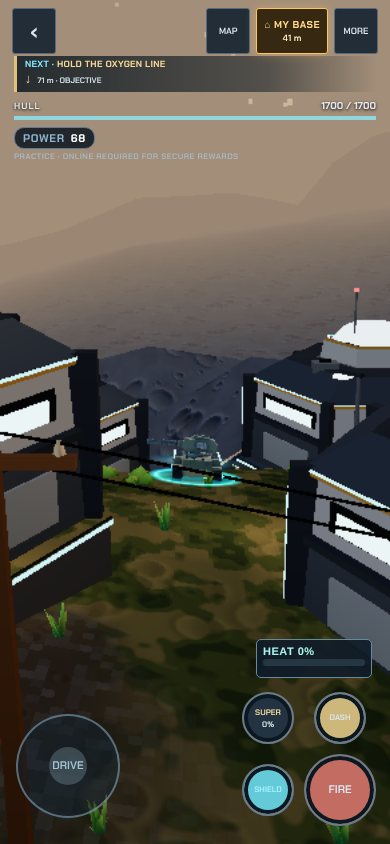
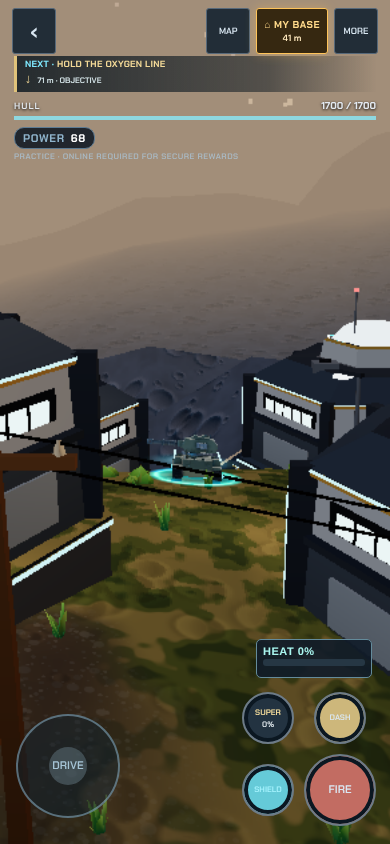
tests(5E-2d1): the see-through test counts only the pixels the outline pass adds (the tank's own cyan ground ring fell inside the outline's colour window on the darker soil and was counted as outline in open country)
Claude-Session: https://claude.ai/code/session_014ynx7vkgCFABkfbNZK7r1J

diff --git a/dev/tests/conquest-occluder.py b/dev/tests/conquest-occluder.py
@@ -11,9 +11,14 @@ from playwright.async_api import async_playwright
 ROOT=pathlib.Path(__file__).resolve().parents[2]
 OUT=ROOT/'docs/conquest/occluder';OUT.mkdir(parents=True,exist_ok=True)
 # the outline's pixels around the tank (its exact colour, written without tone mapping), read straight after a render
-COUNT="""()=>{const v=Conquest.view,T=v.T,cv=v.renderer.domElement;v.renderer.render(v.scene,v.camera);const c=document.createElement('canvas');c.width=cv.width;c.height=cv.height;const x=c.getContext('2d');x.drawImage(cv,0,0);
- const p=new T.Vector3(v.vehicle.position.x,v.vehicle.position.y+1.5,v.vehicle.position.z).project(v.camera),px=Math.round((p.x+1)/2*cv.width),py=Math.round((1-p.y)/2*cv.height),R=Math.round(cv.height*.11),d=x.getImageData(Math.max(0,px-R),Math.max(0,py-R),2*R,2*R).data;let n=0;
- for(let i=0;i<d.length;i+=4)if(Math.abs(d[i]-143)<12&&Math.abs(d[i+1]-246)<12&&Math.abs(d[i+2]-255)<10)n++;return n;}"""
+COUNT="""()=>{const v=Conquest.view,T=v.T,cv=v.renderer.domElement,g=v.outline&&v.outline.group;
+ // Session 5E-2d1: only what the outline pass ADDS is counted (the frame with the outline group drawn, minus the same frame
+ // without it). The tank's own cyan ground ring falls inside the colour window on dark terraformed soil, and was counted as
+ // "outline in the open" once round 3 changed the ground there.
+ const shot=()=>{v.renderer.render(v.scene,v.camera);const c=document.createElement('canvas');c.width=cv.width;c.height=cv.height;const x=c.getContext('2d');x.drawImage(cv,0,0);
+  const p=new T.Vector3(v.vehicle.position.x,v.vehicle.position.y+1.5,v.vehicle.position.z).project(v.camera),px=Math.round((p.x+1)/2*cv.width),py=Math.round((1-p.y)/2*cv.height),R=Math.round(cv.height*.11),d=x.getImageData(Math.max(0,px-R),Math.max(0,py-R),2*R,2*R).data;let n=0;
+  for(let i=0;i<d.length;i+=4)if(Math.abs(d[i]-143)<12&&Math.abs(d[i+1]-246)<12&&Math.abs(d[i+2]-255)<10)n++;return n;};
+ const on=shot();let off=0;if(g){const was=g.visible;g.visible=false;off=shot();g.visible=was;v.renderer.render(v.scene,v.camera);}return Math.max(0,on-off);}"""
 async def main(engine):
  async with async_playwright() as p:
   opts={'headless':True}

diff --git a/docs/conquest/IMPLEMENTATION_CHECKPOINT.md b/docs/conquest/IMPLEMENTATION_CHECKPOINT.md
@@ -6285,6 +6285,11 @@ indistinguishable from the dashed asphalt roads"); wrecks and props CLOSE. The 2
   sun went near-black (a small sky fill, the same idea as the walls' daylight bounce); the wild ground cover was sparse
   (HIGH step 4.8 m -> 4.6 m, a higher cover floor, wild flowers in the thick patches; the densest ground chunk is 27,481
   triangles, was 24,387, cap 30,000).
+- **A second test changed, and why:** `conquest-occluder.py` counted pixels of the outline's colour round the tank and
+  wanted fewer than 40 of them in open country. On the darker terraformed soil of round 3 the tank's own cyan ground
+  ring falls inside that colour window (274 pixels, none of them outline). The test now counts only what the outline
+  pass adds: the frame with the outline group drawn minus the same frame without it (25 in the open, 317 behind the
+  blocker). Same limits, a cleaner measure; nothing skipped or loosened.
 - **A test changed, and why:** `conquest-slots.mjs` checked every vertex alpha against a fixed floor of -1.3 (the last
   surface code). Two surface looks were added (bark, ice), so the floor is now read from the surface-code list itself
   (`ConquestWorldKit.SURF`); an alpha below the last code still fails. Nothing skipped or loosened.
